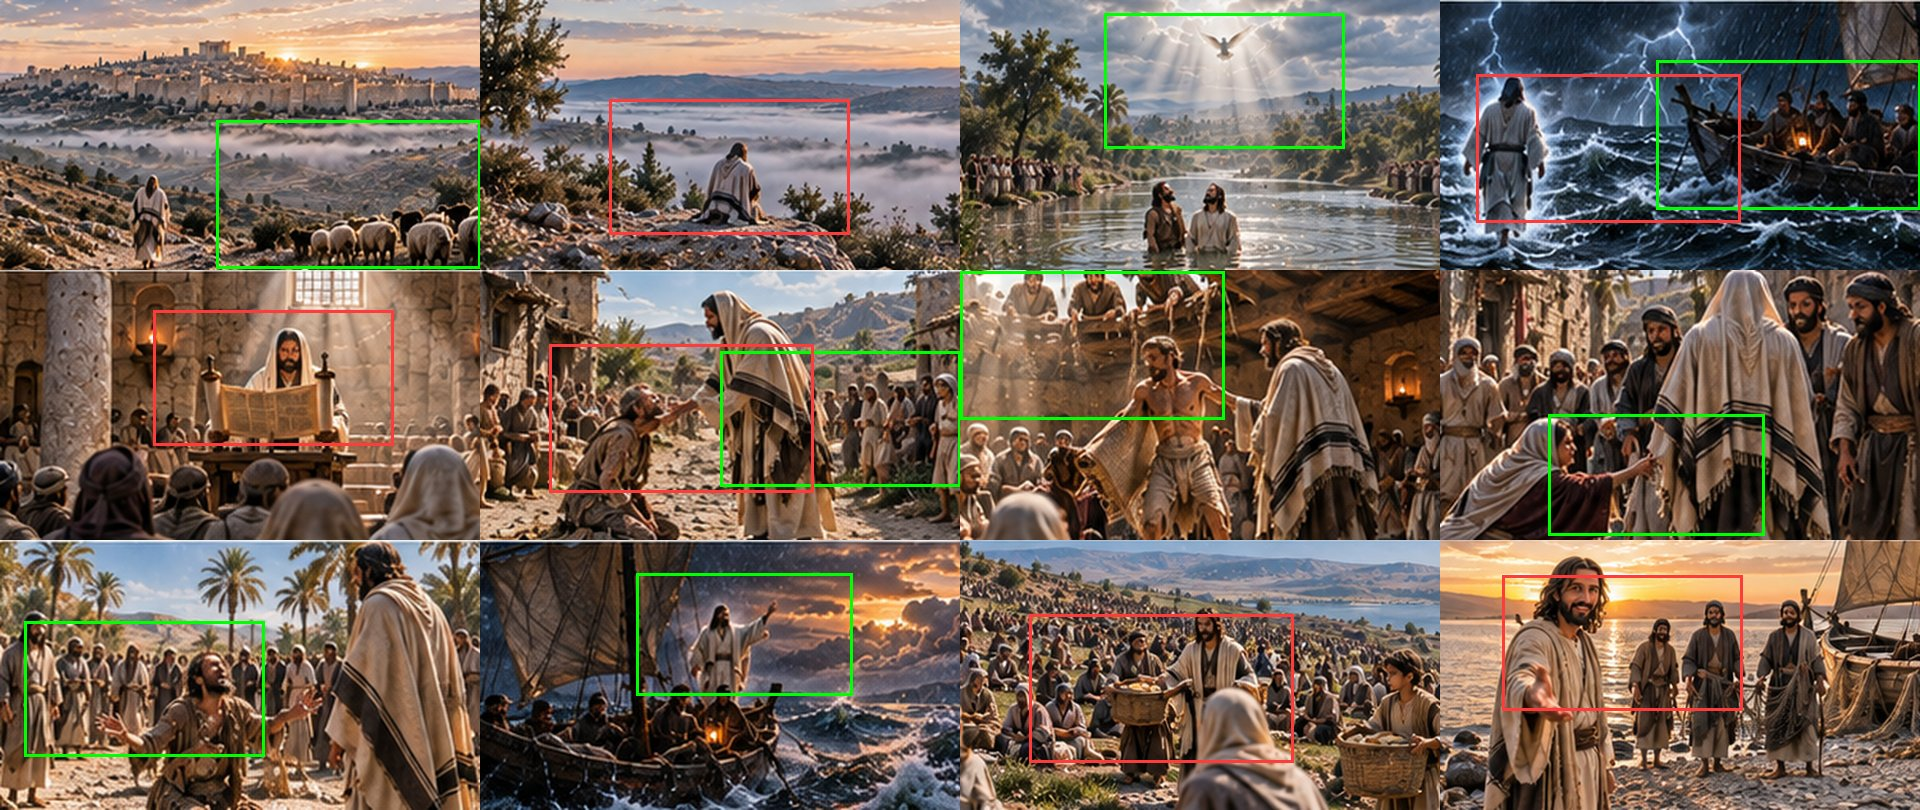
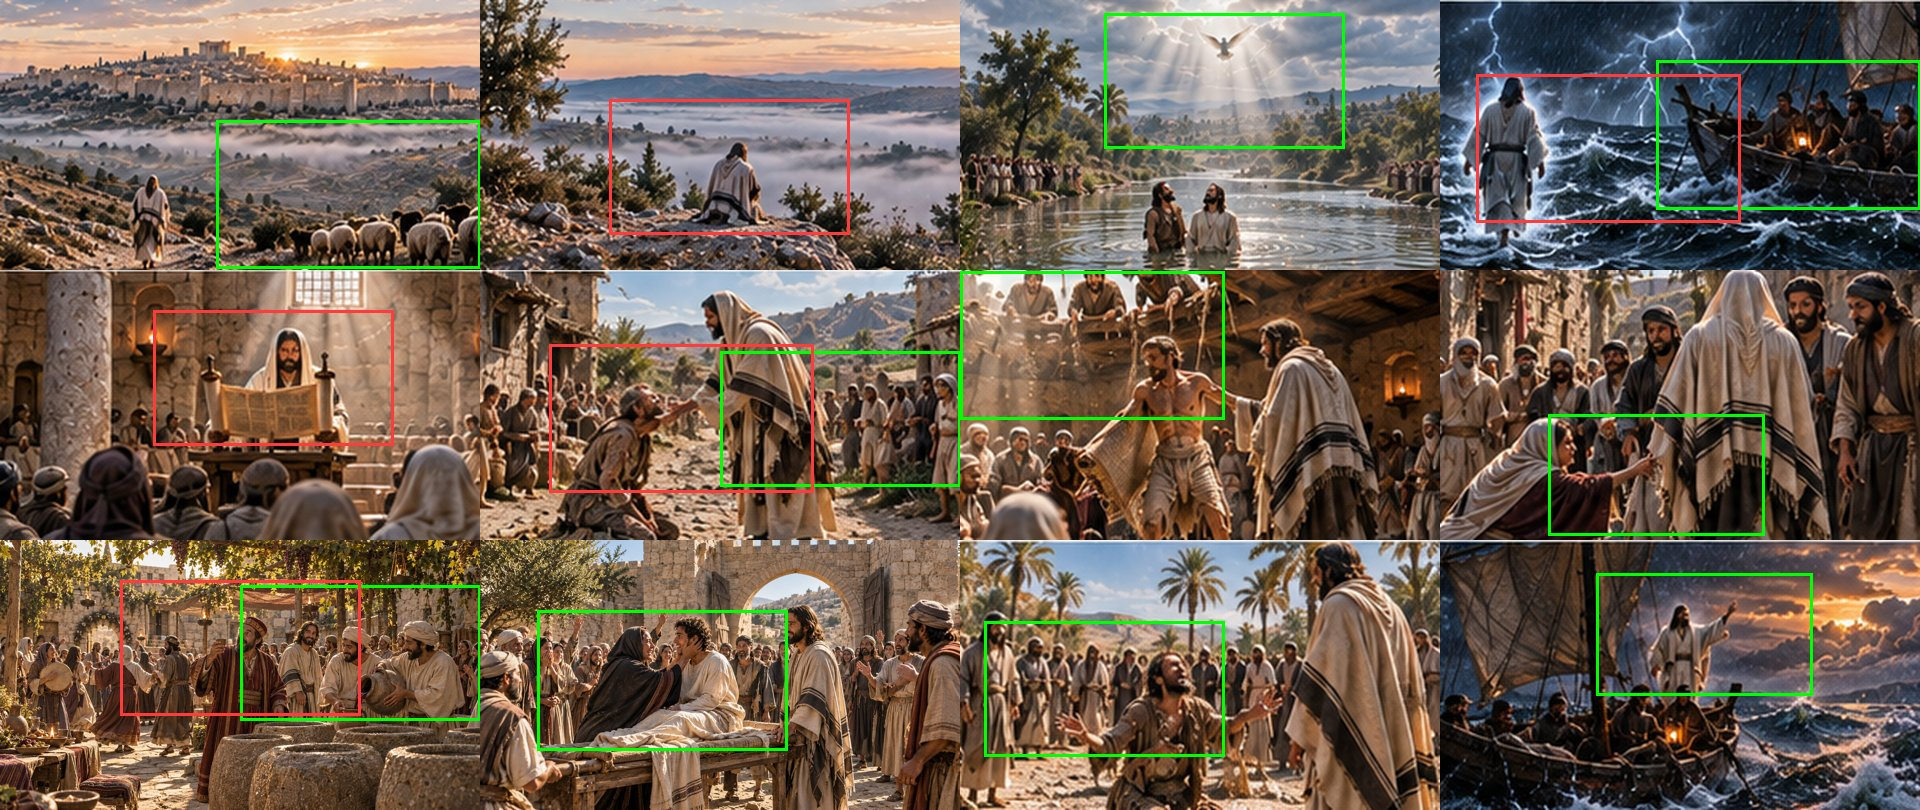
Jesus Savior Redeemer Friend: new New Wine and Widow's Son stills, camera frames
Claude-Session: https://claude.ai/code/session_01BF3wGyJKPPbPDp5JMmzx9x

Changed region(s): [[0.0, 0.6481, 1.0, 1.0]]

diff --git a/jesus-savior-redeemer-friend/CAMERA-PLAN.md b/jesus-savior-redeemer-friend/CAMERA-PLAN.md
@@ -16,8 +16,8 @@ Frames: `stills/NN_*.jpg` is the full wide picture. `stills/keys/NN-start.jpg` /
 | 06 The Leper | Chains are breaking hearts are rising / As Your freedom is revealed | Pan right to left from the watching villagers to Yeshua's hand reaching the leper's face, gently pushing in | keys/06-start → keys/06-end |
 | 13 The Bread Shared | Jesus God's Anointed / Lifting burdens giving hope | From the hillside crowd by the sea, push in to Yeshua handing out bread with the boy | 13 → keys/13-end |
 | 08 The Crowd and the Hem | Binding wounds You heal my pain | Start close on her hand touching the tassel, pull back to show the pressing crowd and Yeshua turning | keys/08-start → 08 |
-| 09 New Wine | Pouring gladness over me | Waiting for the redo. Plan: pan right to left across the stone jars as the wine pours, ending on the steward's amazed smile | set when the new still arrives |
-| 10 The Widow's Son | Beauty rises from the ashes / In Your love You set me free | Waiting for the redo. Plan: pull back from the mother and son embracing to reveal Yeshua and the crowd at the gate | set when the new still arrives |
+| 09 New Wine | Pouring gladness over me | Pan right to left from the servants pouring red wine from the stone jars to the steward's amazed smile, with Yeshua smiling behind | keys/09-start → keys/09-end |
+| 10 The Widow's Son | Beauty rises from the ashes / In Your love You set me free | Start close on the mother holding her son's face, pull back to reveal Yeshua at the bier and the rejoicing crowd at the gate | keys/10-start → 10 |
 | 14 Follow Me | Jesus Savior My Redeemer / Precious Guardian precious Friend | From the shore with the fishermen and boat, push in toward Yeshua's reaching hand and face | 14 → keys/14-end |
 | 11 Bartimaeus Sees | You declare this is the season / Of Your mercy of Your light | Start close on Bartimaeus lifting his arms, pull back past Yeshua's shoulder to the crowd | keys/11-start → 11 |
 | 04 Upon the Waters | By Your Spirit we are rising / In Your strength we soar along | Pan right to left from the frightened men in the boat to Yeshua walking on the waves | keys/04-start → keys/04-end |

diff --git a/jesus-savior-redeemer-friend/README.md b/jesus-savior-redeemer-friend/README.md
@@ -45,7 +45,7 @@ Later choruses and the bridge need more shots, so no scene repeats.
 ## Folders
 
 - `references/` — character sheets
-- `stills/` — one picture per scene
+- `stills/` — one picture per scene (`stills/spares/` holds earlier versions)
 - `clips/` — each still animated into a moving clip
 - `final/` — the finished music video
 - `CAMERA-PLAN.md` — how the camera moves across each wide still
